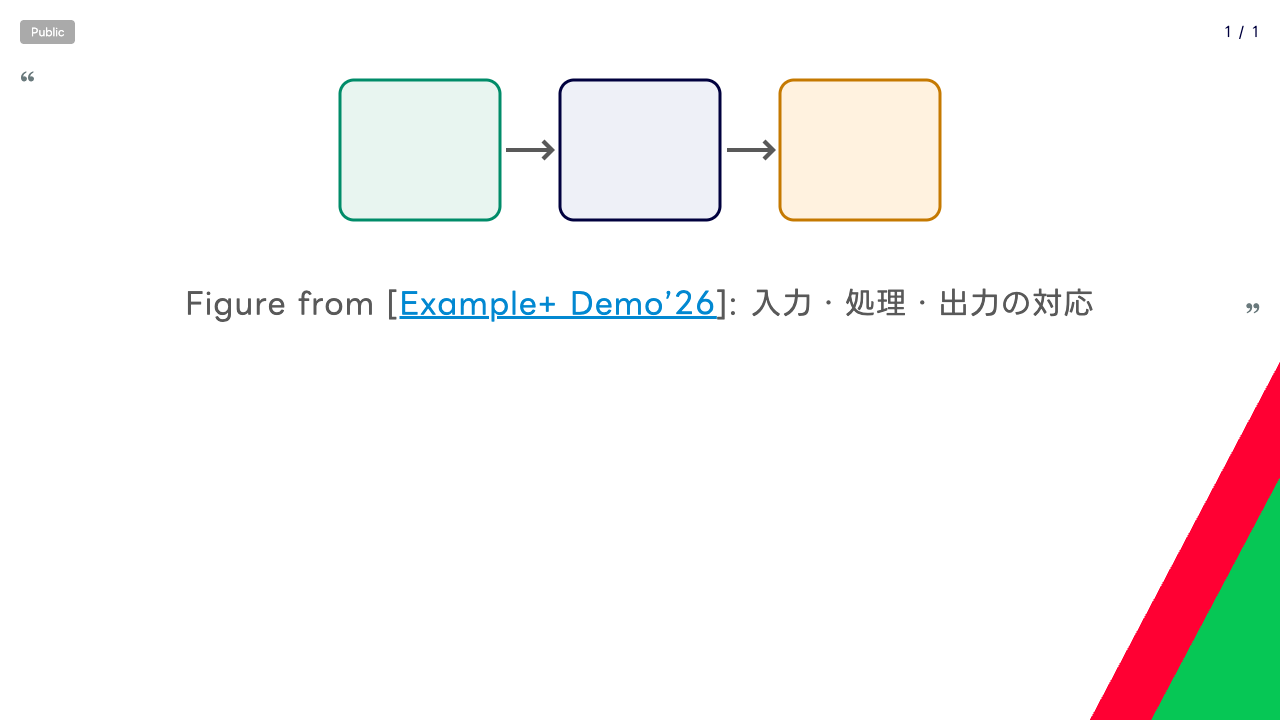
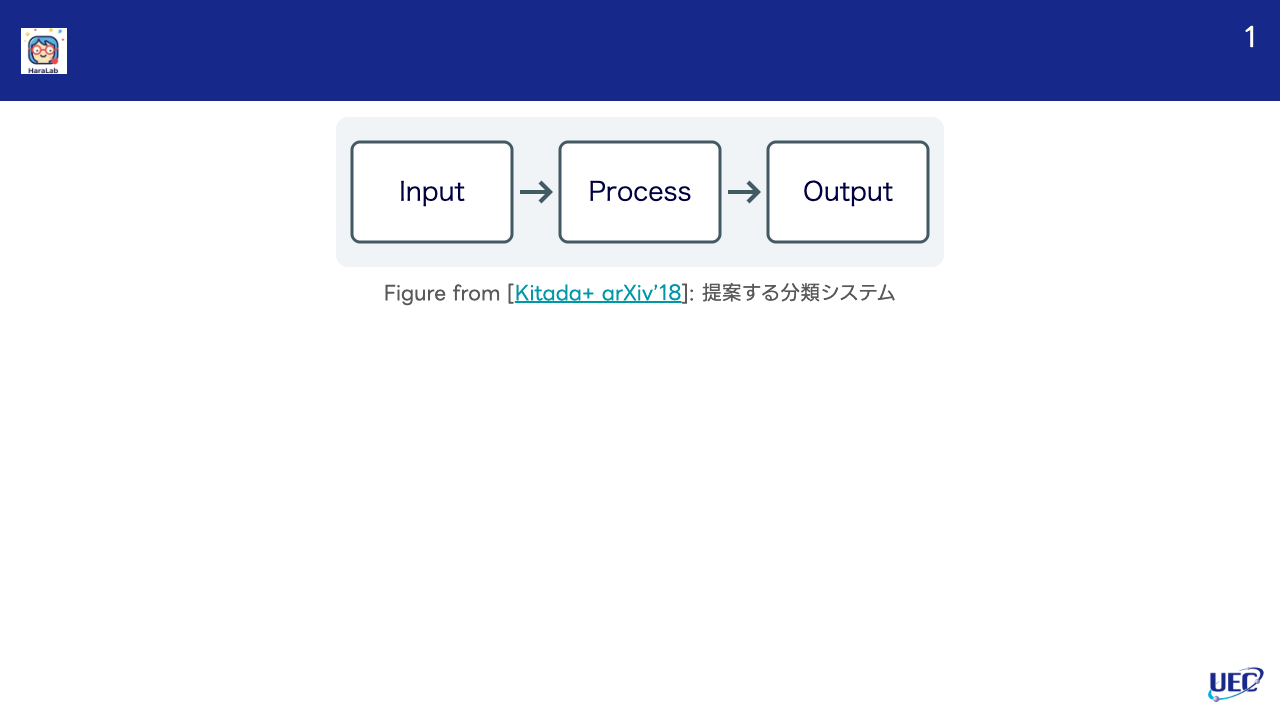
docs(article): align Marp examples with UEC renders

Changed region(s): [[0.0, 0.0, 1.0, 0.3361], [0.8438, 0.5194, 1.0, 1.0], [0.125, 0.3972, 0.8438, 0.4583]]

diff --git a/articles/marp-paper-reading-slides.md b/articles/marp-paper-reading-slides.md
@@ -21,7 +21,7 @@ https://adventar.org/calendars/13106
 
 PowerPoint や Keynote などの GUI ツールでは、フォントや余白、数式の配置を手作業で調整する手間が発生します。一方で Marp は、原稿がテキストなのでコーディングエージェントでも扱いやすく、CSS でスタイルを一括調整できます。HTML で出力すれば、CSS のアニメーションも宣言的に書ける点も気に入っています。
 
-筆者のスライド用リポジトリ [shunk031/slides](https://github.com/shunk031/slides) では、この Marp を基盤に据え、コーディングエージェントがスライドの原稿を主に執筆し、人間が微調整する運用を整えています。専用の CSS テーマ、数式注釈の記法ルール、Headless Chrome によるレイアウト自動検査を備え、文字のはみ出しやテキスト同士の重なり、単語の途中改行などが見つかったスライドの PDF 出力を自動で止めます。本記事では、このリポジトリの構成と、エージェントと協調して論文紹介スライドを見やすく仕上げる工夫を解説します。
+筆者のスライド用リポジトリ [shunk031/slides](https://github.com/shunk031/slides) では、この Marp を基盤に据え、コーディングエージェントがスライドの原稿を主に執筆し、人間が微調整する運用を整えています。専用の CSS テーマと Headless Chrome によるレイアウト自動検査を備え、文字のはみ出しやテキスト同士の重なり、単語の途中改行などが見つかったスライドの PDF 出力を自動で止めます。本記事では、このリポジトリの構成と、エージェントと協調して論文紹介スライドを見やすく仕上げる工夫を解説します。
 
 https://github.com/shunk031/slides
 
@@ -143,7 +143,7 @@ paginate: true
 
 > ![Figure 1: 入力から出力への対応](assets/placeholder.svg)
 >
-> Figure from [[Example+ Demo’26](https://example.org/paper)]: 入力・処理・出力の対応
+> Figure from [[Kitada+ arXiv’18](https://arxiv.org/abs/1809.02568)]: 提案する分類システム
 ```
 
 ![](/images/marp-paper-reading-slides/figure-source.png)
@@ -185,7 +185,7 @@ section.debug-layout > blockquote img { width: 1284px; max-width: none; }
 
 > ![Figure 1: 枠の右端がスライド外へ出る](assets/placeholder.svg)
 >
-> Figure from [[Example+ Demo’26](https://example.org/paper)]: 入力・処理・出力の対応
+> Figure from [[Kitada+ arXiv’18](https://arxiv.org/abs/1809.02568)]: 提案する分類システム
 ```
 
 ![](/images/marp-paper-reading-slides/layout-debug.png)
@@ -215,7 +215,6 @@ section.debug-layout > blockquote img { width: 1284px; max-width: none; }
 Marp を活用した論文紹介スライドの作成構成と、見やすく仕上げるための工夫を紹介しました。Markdown による原稿管理、専用 CSS テーマ、Headless Chrome による自動検査を組み合わせることで、レイアウト崩れを防ぎながらスライドを作成できます。コーディングエージェントに執筆を任せる場合でも、明確なルール定義と機械による自動検査を整えることで、手作業での調整や手戻りを減らしやすくなりました。これから論文紹介スライドや技術発表資料を作成する読者にとって、本記事の環境が参考になれば幸いです。 <!-- textlint-disable -->
 
 <!-- 感想: Marp とレイアウト自動検査によるスライド作成環境を運用してみた総括について、実際に使ってどうだったか一言 -->
-
 
 [^marp_app]: Marp: Markdown Presentation Ecosystem https://marp.app/
 [^mise_doc]: Getting Started - mise-en-place https://mise.jdx.dev/getting-started.html
